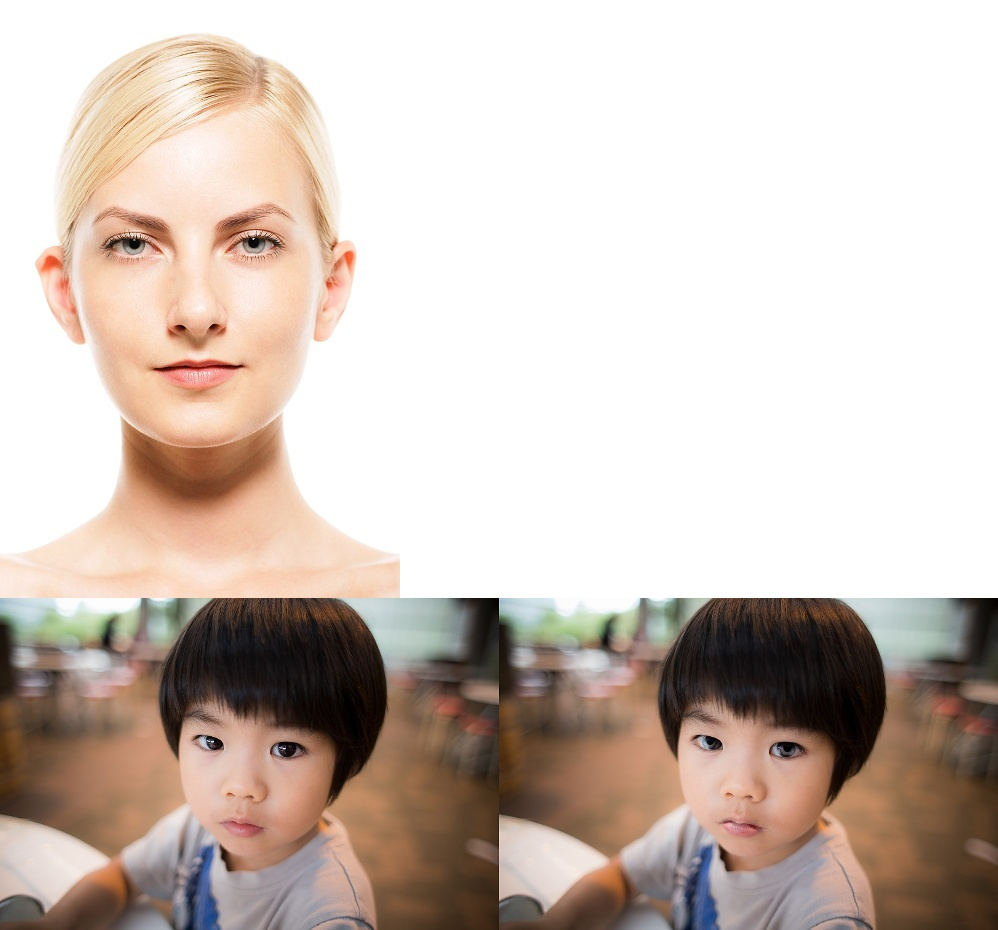
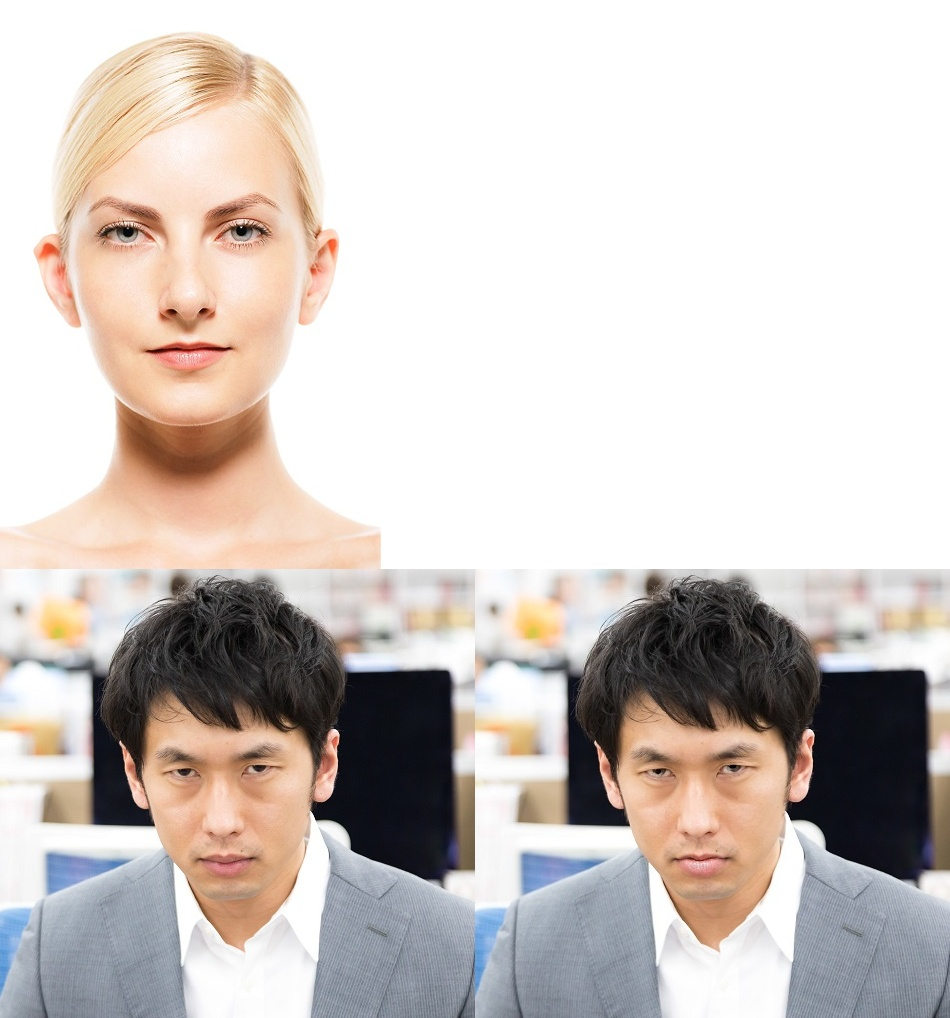
change images

diff --git a/facePartsSwap/myfacepartsSwap.py b/facePartsSwap/myfacepartsSwap.py
@@ -31,60 +31,6 @@ def applyAffineTransform(src, srcTri, dstTri, size):
 
     return dst
 
-
-# Check if a point is inside a rectangle
-def rectContains(rect, point):
-    if point[0] < rect[0]:
-        return False
-    elif point[1] < rect[1]:
-        return False
-    elif point[0] > rect[0] + rect[2]:
-        return False
-    elif point[1] > rect[1] + rect[3]:
-        return False
-    return True
-
-
-# calculate delanauy triangle
-def calculateDelaunayTriangles(rect, points):
-    # create subdiv
-    subdiv = cv2.Subdiv2D(rect);
-
-    # Insert points into subdiv
-    for p in points:
-        subdiv.insert(p)
-
-    triangleList = subdiv.getTriangleList();
-
-    delaunayTri = []
-
-    pt = []
-
-    for t in triangleList:
-        pt.append((t[0], t[1]))
-        pt.append((t[2], t[3]))
-        pt.append((t[4], t[5]))
-
-        pt1 = (t[0], t[1])
-        pt2 = (t[2], t[3])
-        pt3 = (t[4], t[5])
-
-        if rectContains(rect, pt1) and rectContains(rect, pt2) and rectContains(rect, pt3):
-            ind = []
-            # Get face-points (from 68 face detector) by coordinates
-            for j in range(0, 3):
-                for k in range(0, len(points)):
-                    if (abs(pt[j][0] - points[k][0]) < 1.0 and abs(pt[j][1] - points[k][1]) < 1.0):
-                        ind.append(k)
-                        # Three points form a triangle. Triangle array corresponds to the file tri.txt in FaceMorph
-            if len(ind) == 3:
-                delaunayTri.append((ind[0], ind[1], ind[2]))
-
-        pt = []
-
-    return delaunayTri
-
-
 # Warps triangular regions from img1 to img2
 def warpTriangle(img1, img2, t1, t2):
     # Find bounding rectangle for each triangle
@@ -115,14 +61,15 @@ def warpTriangle(img1, img2, t1, t2):
     img2[r2[1]:r2[1] + r2[3], r2[0]:r2[0] + r2[2]] = img2[r2[1]:r2[1] + r2[3], r2[0]:r2[0] + r2[2]]*((1.0, 1.0, 1.0) - mask)
     img2[r2[1]:r2[1] + r2[3], r2[0]:r2[0] + r2[2]] = img2[r2[1]:r2[1] + r2[3], r2[0]:r2[0] + r2[2]] + img2Rect
 
-def getFacialLandmarkImg(img = "", lpos = "", tset = ""):
+def getFacialLandmarkImg(img = "", lpos = "", tset = "", color = (255, 0, 0)):
     imgshow = np.copy(img)
     for i in range(len(lpos)):
-        cv2.circle(imgshow, lpos[i], 2,  (255,0,0))
+        cv2.circle(imgshow, lpos[i], 2,  color, -1
+                   )
     for i in range(len(tset)):
-        cv2.line(imgshow, tset[i][0], tset[i][1], (255,0,0), 1)
-        cv2.line(imgshow, tset[i][0], tset[i][2], (255, 0, 0), 1)
-        cv2.line(imgshow, tset[i][2], tset[i][1], (255, 0, 0), 1)
+        cv2.line(imgshow, tset[i][0], tset[i][1], color, 1)
+        cv2.line(imgshow, tset[i][0], tset[i][2], color, 1)
+        cv2.line(imgshow, tset[i][2], tset[i][1], color, 1)
 
     return imgshow
 
@@ -156,7 +103,6 @@ def partsSwap(filename1 = "", filename2 = "", swLeye = 0, swReye = 0, swNose = 0
     dt = []
     tset1 = []
     tset2 = []
-    p_transform = []
 
     output = np.copy(img2);
     # Read triangles from tri.txt
@@ -174,10 +120,6 @@ def partsSwap(filename1 = "", filename2 = "", swLeye = 0, swReye = 0, swNose = 0
                 dt.append((x,y,z))
                 tset1.append([points1[x], points1[y], points1[z]])
                 tset2.append([points2[x], points2[y], points2[z]])
-
-                p_transform.append(points2[x])
-                p_transform.append(points2[y])
-                p_transform.append(points2[z])
 
                 tripos = []
                 tripos.append(points2[x])
@@ -217,15 +159,21 @@ def partsSwap(filename1 = "", filename2 = "", swLeye = 0, swReye = 0, swNose = 0
         cv2.imshow("img1 lamdmark", img1land)
         cv2.waitKey(0)
         cv2.destroyAllWindows()
-        saveimgname = filename1 + "_beforewarp.jpg"
+        saveimgname = filename1 + "_beforewarp_tri.jpg"
         cv2.imwrite(saveimgname, img1land)
 
         img1landWarp = getFacialLandmarkImg(img1Warped, points2, tset2)
         cv2.imshow("img1 warp lamdmark", img1landWarp)
         cv2.waitKey(0)
         cv2.destroyAllWindows()
-        saveimgname = filename1 + "_afterwarp.jpg"
+        saveimgname = filename1 + "_afterwarp_tri.jpg"
         cv2.imwrite(saveimgname, img1landWarp)
+
+        cv2.imshow("img1 warp", img1Warped)
+        cv2.waitKey(0)
+        cv2.destroyAllWindows()
+        saveimgname = filename1 + "_afterwarp.jpg"
+        cv2.imwrite(saveimgname, img1Warped)
 
     return output
 
@@ -240,7 +188,7 @@ if __name__ == '__main__':
 
     # Read images
     filename1 = 'facefld/model10211041_TP_V4.jpg'
-    filename2 = 'facefld/XEN7615021_TP_V.jpg'
+    filename2 = 'facefld/ookawa918IMGL1370_TP_V.jpg'
 
     output = partsSwap(filename1, filename2, swLeye = 1, swReye = 1, swNose = 0, swMouth = 1)
 
